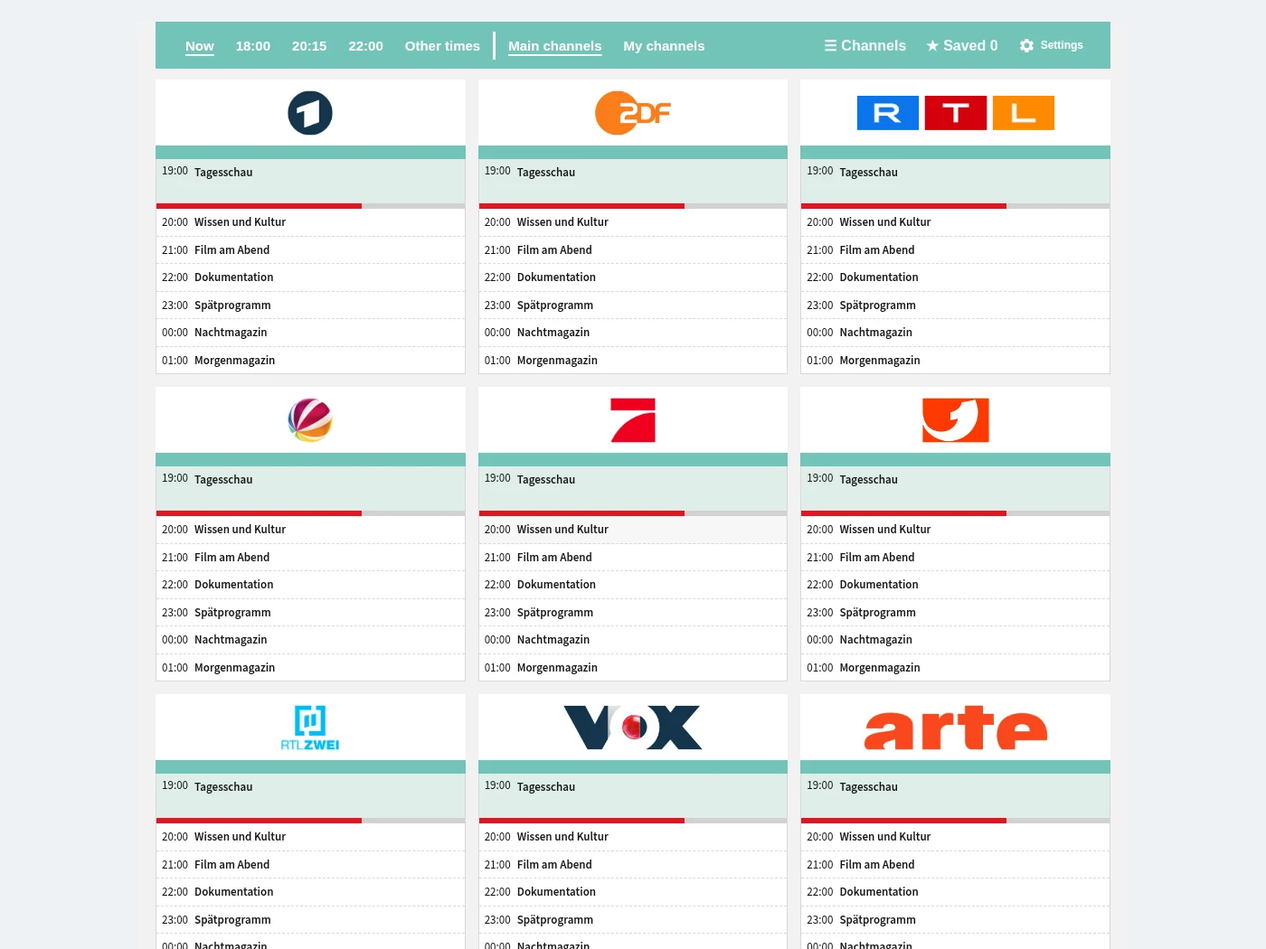
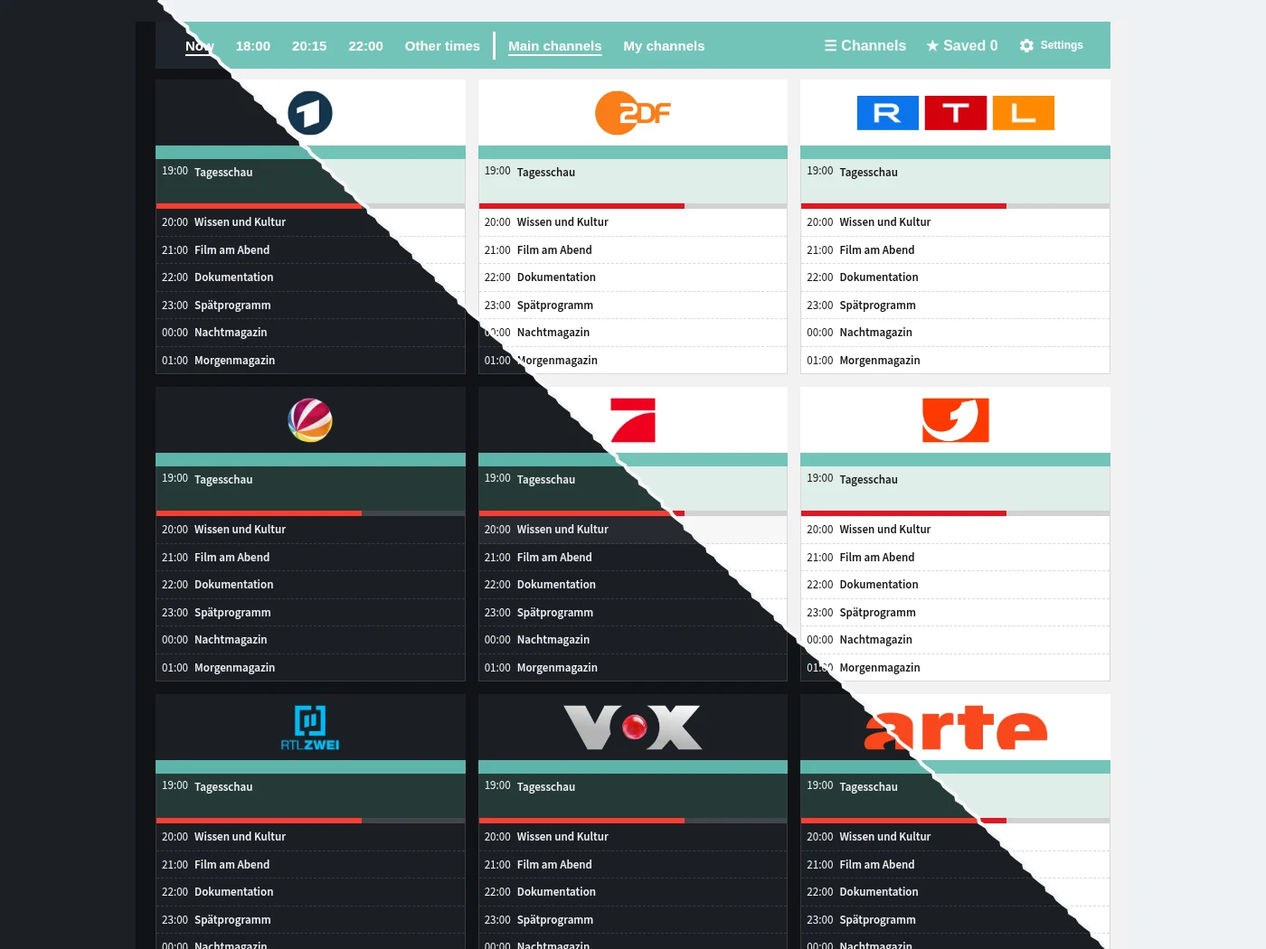
Show dashboard card in light and dark mode in every gallery language

diff --git a/docs/screenshots/fr.html b/docs/screenshots/fr.html
@@ -26,6 +26,6 @@
 <main><section class="hero"><div class="eyebrow">TV Guide · Aperçu</div><h1>TV Guide dans Home Assistant</h1><p class="intro">Découvrez le programme TV, les listes de chaînes personnelles, le choix des horaires et la carte facultative.</p></section><section class="gallery" aria-label="Captures d’écran"><article class="shot"><a class="shot-link" href="fr/program-overview.webp" target="_blank" rel="noopener"><img src="fr/program-overview.webp" alt="Programme TV" width="1400" height="1050" loading="eager"></a><h2>Programme TV</h2><p>Chaînes, horaires et émissions en un coup d’œil. Accédez directement à maintenant, 18:00, 20:15 ou 22:00.</p></article>
 <article class="shot"><a class="shot-link" href="fr/my-channels.webp" target="_blank" rel="noopener"><img src="fr/my-channels.webp" alt="Votre liste de chaînes" width="1400" height="1050" loading="lazy"></a><h2>Votre liste de chaînes</h2><p>Choisissez vos chaînes préférées parmi les pays disponibles et classez-les à votre façon.</p></article>
 <article class="shot"><a class="shot-link" href="fr/other-times.webp" target="_blank" rel="noopener"><img src="fr/other-times.webp" alt="Autres horaires" width="1400" height="1050" loading="lazy"></a><h2>Autres horaires</h2><p>Choisissez une autre date et une heure sans quitter le guide.</p></article>
-<article class="shot"><a class="shot-link" href="fr/dashboard-card.webp" target="_blank" rel="noopener"><img src="fr/dashboard-card.webp" alt="Carte facultative pour le tableau de bord" width="1400" height="1050" loading="lazy"></a><h2>Carte facultative pour le tableau de bord</h2><p>Ajoutez TV Guide à votre tableau de bord. Le guide complet est aussi disponible dans la barre latérale.</p></article></section><p class="samples">Programmes d’exemple. Les titres restent dans leur langue d’origine.</p>
+<article class="shot"><a class="shot-link" href="fr/dashboard-card.webp" target="_blank" rel="noopener"><img src="fr/dashboard-card.webp" alt="Ajoutez TV Guide à votre tableau de bord. Le guide complet est aussi disponible dans la barre latérale. L’image montre la carte en mode clair et sombre." width="1400" height="1050" loading="lazy"></a><h2>Carte facultative pour le tableau de bord</h2><p>Ajoutez TV Guide à votre tableau de bord. Le guide complet est aussi disponible dans la barre latérale. L’image montre la carte en mode clair et sombre.</p></article></section><p class="samples">Programmes d’exemple. Les titres restent dans leur langue d’origine.</p>
 <section class="cta"><h2>Essayez TV Guide</h2><p>Gratuit et directement dans Home Assistant.</p><a class="button" href="https://my.home-assistant.io/redirect/hacs_repository/?owner=criticallimit&amp;repository=HA-TV-Guide&amp;category=integration">Ouvrir dans HACS</a></section></main>
 <footer><span>TV Guide · criticallimit</span><span><a href="../fr.html">Accueil</a> · <a href="https://github.com/criticallimit/HA-TV-Guide/issues">Aide et commentaires</a></span></footer></div></body></html>

diff --git a/docs/screenshots/de.html b/docs/screenshots/de.html
@@ -26,6 +26,6 @@
 <main><section class="hero"><div class="eyebrow">TV Guide · Vorschau</div><h1>TV Guide in Home Assistant</h1><p class="intro">Entdecke die Programmübersicht, persönliche Senderlisten, Zeitauswahl und die optionale Dashboard-Karte.</p></section><section class="gallery" aria-label="Screenshots"><article class="shot"><a class="shot-link" href="de/program-overview.webp" target="_blank" rel="noopener"><img src="de/program-overview.webp" alt="Programmübersicht" width="1400" height="1050" loading="eager"></a><h2>Programmübersicht</h2><p>Sender, Zeiten und Sendungen auf einen Blick. Direkt zu jetzt, 18:00, 20:15 oder 22:00 springen.</p></article>
 <article class="shot"><a class="shot-link" href="de/my-channels.webp" target="_blank" rel="noopener"><img src="de/my-channels.webp" alt="Deine Senderliste" width="1400" height="1050" loading="lazy"></a><h2>Deine Senderliste</h2><p>Wähle Favoriten aus den unterstützten Ländern und bringe sie in deine gewünschte Reihenfolge.</p></article>
 <article class="shot"><a class="shot-link" href="de/other-times.webp" target="_blank" rel="noopener"><img src="de/other-times.webp" alt="Andere Zeiten" width="1400" height="1050" loading="lazy"></a><h2>Andere Zeiten</h2><p>Wähle ein anderes Datum und eine Uhrzeit, ohne die Übersicht zu verlassen.</p></article>
-<article class="shot"><a class="shot-link" href="de/dashboard-card.webp" target="_blank" rel="noopener"><img src="de/dashboard-card.webp" alt="Optionale Dashboard-Karte" width="1400" height="1050" loading="lazy"></a><h2>Optionale Dashboard-Karte</h2><p>Füge TV Guide zu deinem Dashboard hinzu. Die vollständige Übersicht ist auch direkt in der Seitenleiste verfügbar.</p></article></section><p class="samples">Beispielprogramme. Sendungstitel bleiben in ihrer Originalsprache.</p>
+<article class="shot"><a class="shot-link" href="de/dashboard-card.webp" target="_blank" rel="noopener"><img src="de/dashboard-card.webp" alt="Füge TV Guide zu deinem Dashboard hinzu. Die vollständige Übersicht ist auch direkt in der Seitenleiste verfügbar. Das Bild zeigt die Karte im Hell- und Dunkelmodus." width="1400" height="1050" loading="lazy"></a><h2>Optionale Dashboard-Karte</h2><p>Füge TV Guide zu deinem Dashboard hinzu. Die vollständige Übersicht ist auch direkt in der Seitenleiste verfügbar. Das Bild zeigt die Karte im Hell- und Dunkelmodus.</p></article></section><p class="samples">Beispielprogramme. Sendungstitel bleiben in ihrer Originalsprache.</p>
 <section class="cta"><h2>TV Guide ausprobieren</h2><p>Kostenlos und direkt in Home Assistant.</p><a class="button" href="https://my.home-assistant.io/redirect/hacs_repository/?owner=criticallimit&amp;repository=HA-TV-Guide&amp;category=integration">In HACS öffnen</a></section></main>
 <footer><span>TV Guide · criticallimit</span><span><a href="../index.html">Startseite</a> · <a href="https://github.com/criticallimit/HA-TV-Guide/issues">Hilfe &amp; Feedback</a></span></footer></div></body></html>

diff --git a/docs/screenshots.html b/docs/screenshots.html
@@ -26,6 +26,6 @@
 <main><section class="hero"><div class="eyebrow">TV Guide · Preview</div><h1>TV Guide in Home Assistant</h1><p class="intro">Explore the programme guide, personal channel lists, time selection and the optional dashboard card.</p></section><section class="gallery" aria-label="Screenshots"><article class="shot"><a class="shot-link" href="screenshots/en/program-overview.webp" target="_blank" rel="noopener"><img src="screenshots/en/program-overview.webp" alt="Programme overview" width="1400" height="1050" loading="eager"></a><h2>Programme overview</h2><p>Channels, times and programmes at a glance. Jump straight to now, 18:00, 20:15 or 22:00.</p></article>
 <article class="shot"><a class="shot-link" href="screenshots/en/my-channels.webp" target="_blank" rel="noopener"><img src="screenshots/en/my-channels.webp" alt="Your channel list" width="1400" height="1050" loading="lazy"></a><h2>Your channel list</h2><p>Choose favourites from the supported countries and arrange them in your own order.</p></article>
 <article class="shot"><a class="shot-link" href="screenshots/en/other-times.webp" target="_blank" rel="noopener"><img src="screenshots/en/other-times.webp" alt="Other times" width="1400" height="1050" loading="lazy"></a><h2>Other times</h2><p>Choose another date and time without leaving the guide.</p></article>
-<article class="shot"><a class="shot-link" href="screenshots/en/dashboard-card.webp" target="_blank" rel="noopener"><img src="screenshots/en/dashboard-card.webp" alt="Optional dashboard card" width="1400" height="1050" loading="lazy"></a><h2>Optional dashboard card</h2><p>Add TV Guide to your own dashboard. The complete guide is also ready to use in the sidebar.</p></article></section><p class="samples">Example schedules. Programme titles stay in their source language.</p>
+<article class="shot"><a class="shot-link" href="screenshots/en/dashboard-card.webp" target="_blank" rel="noopener"><img src="screenshots/en/dashboard-card.webp" alt="Add TV Guide to your own dashboard. The complete guide is also ready to use in the sidebar. The image shows the card in light and dark mode." width="1400" height="1050" loading="lazy"></a><h2>Optional dashboard card</h2><p>Add TV Guide to your own dashboard. The complete guide is also ready to use in the sidebar. The image shows the card in light and dark mode.</p></article></section><p class="samples">Example schedules. Programme titles stay in their source language.</p>
 <section class="cta"><h2>Try TV Guide</h2><p>Free and directly in Home Assistant.</p><a class="button" href="https://my.home-assistant.io/redirect/hacs_repository/?owner=criticallimit&amp;repository=HA-TV-Guide&amp;category=integration">Open in HACS</a></section></main>
 <footer><span>TV Guide · criticallimit</span><span><a href="en.html">Home</a> · <a href="https://github.com/criticallimit/HA-TV-Guide/issues">Help &amp; feedback</a></span></footer></div></body></html>

diff --git a/docs/screenshots/es.html b/docs/screenshots/es.html
@@ -26,6 +26,6 @@
 <main><section class="hero"><div class="eyebrow">TV Guide · Vista previa</div><h1>TV Guide en Home Assistant</h1><p class="intro">Descubre la guía de programación, las listas personales de canales, la selección de horarios y la tarjeta opcional.</p></section><section class="gallery" aria-label="Capturas de pantalla"><article class="shot"><a class="shot-link" href="es/program-overview.webp" target="_blank" rel="noopener"><img src="es/program-overview.webp" alt="Guía de programación" width="1400" height="1050" loading="eager"></a><h2>Guía de programación</h2><p>Canales, horarios y programas de un vistazo. Ve directamente a ahora, 18:00, 20:15 o 22:00.</p></article>
 <article class="shot"><a class="shot-link" href="es/my-channels.webp" target="_blank" rel="noopener"><img src="es/my-channels.webp" alt="Tu lista de canales" width="1400" height="1050" loading="lazy"></a><h2>Tu lista de canales</h2><p>Elige tus favoritos de los países disponibles y ordénalos a tu gusto.</p></article>
 <article class="shot"><a class="shot-link" href="es/other-times.webp" target="_blank" rel="noopener"><img src="es/other-times.webp" alt="Otros horarios" width="1400" height="1050" loading="lazy"></a><h2>Otros horarios</h2><p>Elige otra fecha y hora sin salir de la guía.</p></article>
-<article class="shot"><a class="shot-link" href="es/dashboard-card.webp" target="_blank" rel="noopener"><img src="es/dashboard-card.webp" alt="Tarjeta opcional para el panel" width="1400" height="1050" loading="lazy"></a><h2>Tarjeta opcional para el panel</h2><p>Añade TV Guide a tu panel. La guía completa también está disponible en la barra lateral.</p></article></section><p class="samples">Programación de ejemplo. Los títulos se mantienen en su idioma original.</p>
+<article class="shot"><a class="shot-link" href="es/dashboard-card.webp" target="_blank" rel="noopener"><img src="es/dashboard-card.webp" alt="Añade TV Guide a tu panel. La guía completa también está disponible en la barra lateral. La imagen muestra la tarjeta en modo claro y oscuro." width="1400" height="1050" loading="lazy"></a><h2>Tarjeta opcional para el panel</h2><p>Añade TV Guide a tu panel. La guía completa también está disponible en la barra lateral. La imagen muestra la tarjeta en modo claro y oscuro.</p></article></section><p class="samples">Programación de ejemplo. Los títulos se mantienen en su idioma original.</p>
 <section class="cta"><h2>Prueba TV Guide</h2><p>Gratis y directamente en Home Assistant.</p><a class="button" href="https://my.home-assistant.io/redirect/hacs_repository/?owner=criticallimit&amp;repository=HA-TV-Guide&amp;category=integration">Abrir en HACS</a></section></main>
 <footer><span>TV Guide · criticallimit</span><span><a href="../es.html">Inicio</a> · <a href="https://github.com/criticallimit/HA-TV-Guide/issues">Ayuda y comentarios</a></span></footer></div></body></html>

diff --git a/docs/screenshots/it.html b/docs/screenshots/it.html
@@ -26,6 +26,6 @@
 <main><section class="hero"><div class="eyebrow">TV Guide · Anteprima</div><h1>TV Guide in Home Assistant</h1><p class="intro">Scopri la guida TV, gli elenchi personali dei canali, la scelta degli orari e la scheda facoltativa.</p></section><section class="gallery" aria-label="Screenshot"><article class="shot"><a class="shot-link" href="it/program-overview.webp" target="_blank" rel="noopener"><img src="it/program-overview.webp" alt="Guida TV" width="1400" height="1050" loading="eager"></a><h2>Guida TV</h2><p>Canali, orari e programmi a colpo d’occhio. Vai direttamente a ora, 18:00, 20:15 o 22:00.</p></article>
 <article class="shot"><a class="shot-link" href="it/my-channels.webp" target="_blank" rel="noopener"><img src="it/my-channels.webp" alt="Il tuo elenco di canali" width="1400" height="1050" loading="lazy"></a><h2>Il tuo elenco di canali</h2><p>Scegli i preferiti dai paesi disponibili e disponili nell’ordine che vuoi.</p></article>
 <article class="shot"><a class="shot-link" href="it/other-times.webp" target="_blank" rel="noopener"><img src="it/other-times.webp" alt="Altri orari" width="1400" height="1050" loading="lazy"></a><h2>Altri orari</h2><p>Scegli un’altra data e ora senza lasciare la guida.</p></article>
-<article class="shot"><a class="shot-link" href="it/dashboard-card.webp" target="_blank" rel="noopener"><img src="it/dashboard-card.webp" alt="Scheda facoltativa per la dashboard" width="1400" height="1050" loading="lazy"></a><h2>Scheda facoltativa per la dashboard</h2><p>Aggiungi TV Guide alla tua dashboard. La guida completa è disponibile anche nella barra laterale.</p></article></section><p class="samples">Programmi di esempio. I titoli restano nella lingua originale.</p>
+<article class="shot"><a class="shot-link" href="it/dashboard-card.webp" target="_blank" rel="noopener"><img src="it/dashboard-card.webp" alt="Aggiungi TV Guide alla tua dashboard. La guida completa è disponibile anche nella barra laterale. L’immagine mostra la scheda in modalità chiara e scura." width="1400" height="1050" loading="lazy"></a><h2>Scheda facoltativa per la dashboard</h2><p>Aggiungi TV Guide alla tua dashboard. La guida completa è disponibile anche nella barra laterale. L’immagine mostra la scheda in modalità chiara e scura.</p></article></section><p class="samples">Programmi di esempio. I titoli restano nella lingua originale.</p>
 <section class="cta"><h2>Prova TV Guide</h2><p>Gratis e direttamente in Home Assistant.</p><a class="button" href="https://my.home-assistant.io/redirect/hacs_repository/?owner=criticallimit&amp;repository=HA-TV-Guide&amp;category=integration">Apri in HACS</a></section></main>
 <footer><span>TV Guide · criticallimit</span><span><a href="../it.html">Home</a> · <a href="https://github.com/criticallimit/HA-TV-Guide/issues">Aiuto e commenti</a></span></footer></div></body></html>

diff --git a/docs/screenshots/nl.html b/docs/screenshots/nl.html
@@ -26,6 +26,6 @@
 <main><section class="hero"><div class="eyebrow">TV Guide · Voorbeeld</div><h1>TV Guide in Home Assistant</h1><p class="intro">Bekijk de programmagids, persoonlijke zenderlijsten, tijdkeuze en de optionele dashboardkaart.</p></section><section class="gallery" aria-label="Schermafbeeldingen"><article class="shot"><a class="shot-link" href="nl/program-overview.webp" target="_blank" rel="noopener"><img src="nl/program-overview.webp" alt="Programmaoverzicht" width="1400" height="1050" loading="eager"></a><h2>Programmaoverzicht</h2><p>Zenders, tijden en programma’s in één oogopslag. Ga direct naar nu, 18:00, 20:15 of 22:00.</p></article>
 <article class="shot"><a class="shot-link" href="nl/my-channels.webp" target="_blank" rel="noopener"><img src="nl/my-channels.webp" alt="Jouw zenderlijst" width="1400" height="1050" loading="lazy"></a><h2>Jouw zenderlijst</h2><p>Kies favorieten uit de beschikbare landen en zet ze in je eigen volgorde.</p></article>
 <article class="shot"><a class="shot-link" href="nl/other-times.webp" target="_blank" rel="noopener"><img src="nl/other-times.webp" alt="Andere tijden" width="1400" height="1050" loading="lazy"></a><h2>Andere tijden</h2><p>Kies een andere datum en tijd zonder de gids te verlaten.</p></article>
-<article class="shot"><a class="shot-link" href="nl/dashboard-card.webp" target="_blank" rel="noopener"><img src="nl/dashboard-card.webp" alt="Optionele dashboardkaart" width="1400" height="1050" loading="lazy"></a><h2>Optionele dashboardkaart</h2><p>Voeg TV Guide toe aan je dashboard. De volledige gids is ook beschikbaar in de zijbalk.</p></article></section><p class="samples">Voorbeeldprogramma’s. Programmatitels blijven in hun oorspronkelijke taal.</p>
+<article class="shot"><a class="shot-link" href="nl/dashboard-card.webp" target="_blank" rel="noopener"><img src="nl/dashboard-card.webp" alt="Voeg TV Guide toe aan je dashboard. De volledige gids is ook beschikbaar in de zijbalk. De afbeelding toont de kaart in de lichte en donkere modus." width="1400" height="1050" loading="lazy"></a><h2>Optionele dashboardkaart</h2><p>Voeg TV Guide toe aan je dashboard. De volledige gids is ook beschikbaar in de zijbalk. De afbeelding toont de kaart in de lichte en donkere modus.</p></article></section><p class="samples">Voorbeeldprogramma’s. Programmatitels blijven in hun oorspronkelijke taal.</p>
 <section class="cta"><h2>Probeer TV Guide</h2><p>Gratis en direct in Home Assistant.</p><a class="button" href="https://my.home-assistant.io/redirect/hacs_repository/?owner=criticallimit&amp;repository=HA-TV-Guide&amp;category=integration">Openen in HACS</a></section></main>
 <footer><span>TV Guide · criticallimit</span><span><a href="../nl.html">Startpagina</a> · <a href="https://github.com/criticallimit/HA-TV-Guide/issues">Hulp en feedback</a></span></footer></div></body></html>

diff --git a/docs/screenshots/pl.html b/docs/screenshots/pl.html
@@ -26,6 +26,6 @@
 <main><section class="hero"><div class="eyebrow">TV Guide · Podgląd</div><h1>TV Guide w Home Assistant</h1><p class="intro">Zobacz program TV, własne listy kanałów, wybór godziny i opcjonalną kartę pulpitu.</p></section><section class="gallery" aria-label="Zrzuty ekranu"><article class="shot"><a class="shot-link" href="pl/program-overview.webp" target="_blank" rel="noopener"><img src="pl/program-overview.webp" alt="Program TV" width="1400" height="1050" loading="eager"></a><h2>Program TV</h2><p>Kanały, godziny i programy w jednym miejscu. Przejdź do teraz, 18:00, 20:15 lub 22:00.</p></article>
 <article class="shot"><a class="shot-link" href="pl/my-channels.webp" target="_blank" rel="noopener"><img src="pl/my-channels.webp" alt="Twoja lista kanałów" width="1400" height="1050" loading="lazy"></a><h2>Twoja lista kanałów</h2><p>Wybierz ulubione kanały z dostępnych krajów i ustaw własną kolejność.</p></article>
 <article class="shot"><a class="shot-link" href="pl/other-times.webp" target="_blank" rel="noopener"><img src="pl/other-times.webp" alt="Inny termin" width="1400" height="1050" loading="lazy"></a><h2>Inny termin</h2><p>Wybierz inną datę i godzinę bez opuszczania programu TV.</p></article>
-<article class="shot"><a class="shot-link" href="pl/dashboard-card.webp" target="_blank" rel="noopener"><img src="pl/dashboard-card.webp" alt="Opcjonalna karta pulpitu" width="1400" height="1050" loading="lazy"></a><h2>Opcjonalna karta pulpitu</h2><p>Dodaj TV Guide do własnego pulpitu. Pełny program jest także dostępny na pasku bocznym.</p></article></section><p class="samples">Przykładowe programy. Tytuły pozostają w języku oryginalnym.</p>
+<article class="shot"><a class="shot-link" href="pl/dashboard-card.webp" target="_blank" rel="noopener"><img src="pl/dashboard-card.webp" alt="Dodaj TV Guide do własnego pulpitu. Pełny program jest także dostępny na pasku bocznym. Obraz przedstawia kartę w trybie jasnym i ciemnym." width="1400" height="1050" loading="lazy"></a><h2>Opcjonalna karta pulpitu</h2><p>Dodaj TV Guide do własnego pulpitu. Pełny program jest także dostępny na pasku bocznym. Obraz przedstawia kartę w trybie jasnym i ciemnym.</p></article></section><p class="samples">Przykładowe programy. Tytuły pozostają w języku oryginalnym.</p>
 <section class="cta"><h2>Wypróbuj TV Guide</h2><p>Bezpłatnie i bezpośrednio w Home Assistant.</p><a class="button" href="https://my.home-assistant.io/redirect/hacs_repository/?owner=criticallimit&amp;repository=HA-TV-Guide&amp;category=integration">Otwórz w HACS</a></section></main>
 <footer><span>TV Guide · criticallimit</span><span><a href="../pl.html">Strona główna</a> · <a href="https://github.com/criticallimit/HA-TV-Guide/issues">Pomoc i opinie</a></span></footer></div></body></html>

diff --git a/docs/screenshots/en.html b/docs/screenshots/en.html
@@ -26,6 +26,6 @@
 <main><section class="hero"><div class="eyebrow">TV Guide · Preview</div><h1>TV Guide in Home Assistant</h1><p class="intro">Explore the programme guide, personal channel lists, time selection and the optional dashboard card.</p></section><section class="gallery" aria-label="Screenshots"><article class="shot"><a class="shot-link" href="en/program-overview.webp" target="_blank" rel="noopener"><img src="en/program-overview.webp" alt="Programme overview" width="1400" height="1050" loading="eager"></a><h2>Programme overview</h2><p>Channels, times and programmes at a glance. Jump straight to now, 18:00, 20:15 or 22:00.</p></article>
 <article class="shot"><a class="shot-link" href="en/my-channels.webp" target="_blank" rel="noopener"><img src="en/my-channels.webp" alt="Your channel list" width="1400" height="1050" loading="lazy"></a><h2>Your channel list</h2><p>Choose favourites from the supported countries and arrange them in your own order.</p></article>
 <article class="shot"><a class="shot-link" href="en/other-times.webp" target="_blank" rel="noopener"><img src="en/other-times.webp" alt="Other times" width="1400" height="1050" loading="lazy"></a><h2>Other times</h2><p>Choose another date and time without leaving the guide.</p></article>
-<article class="shot"><a class="shot-link" href="en/dashboard-card.webp" target="_blank" rel="noopener"><img src="en/dashboard-card.webp" alt="Optional dashboard card" width="1400" height="1050" loading="lazy"></a><h2>Optional dashboard card</h2><p>Add TV Guide to your own dashboard. The complete guide is also ready to use in the sidebar.</p></article></section><p class="samples">Example schedules. Programme titles stay in their source language.</p>
+<article class="shot"><a class="shot-link" href="en/dashboard-card.webp" target="_blank" rel="noopener"><img src="en/dashboard-card.webp" alt="Add TV Guide to your own dashboard. The complete guide is also ready to use in the sidebar. The image shows the card in light and dark mode." width="1400" height="1050" loading="lazy"></a><h2>Optional dashboard card</h2><p>Add TV Guide to your own dashboard. The complete guide is also ready to use in the sidebar. The image shows the card in light and dark mode.</p></article></section><p class="samples">Example schedules. Programme titles stay in their source language.</p>
 <section class="cta"><h2>Try TV Guide</h2><p>Free and directly in Home Assistant.</p><a class="button" href="https://my.home-assistant.io/redirect/hacs_repository/?owner=criticallimit&amp;repository=HA-TV-Guide&amp;category=integration">Open in HACS</a></section></main>
 <footer><span>TV Guide · criticallimit</span><span><a href="../en.html">Home</a> · <a href="https://github.com/criticallimit/HA-TV-Guide/issues">Help &amp; feedback</a></span></footer></div></body></html>

diff --git a/docs/screenshots/da.html b/docs/screenshots/da.html
@@ -26,6 +26,6 @@
 <main><section class="hero"><div class="eyebrow">TV Guide · Forhåndsvisning</div><h1>TV Guide i Home Assistant</h1><p class="intro">Se programoversigten, personlige kanallister, tidsvalg og det valgfrie dashboardkort.</p></section><section class="gallery" aria-label="Skærmbilleder"><article class="shot"><a class="shot-link" href="da/program-overview.webp" target="_blank" rel="noopener"><img src="da/program-overview.webp" alt="Programoversigt" width="1400" height="1050" loading="eager"></a><h2>Programoversigt</h2><p>Kanaler, tider og programmer på ét sted. Gå direkte til nu, 18:00, 20:15 eller 22:00.</p></article>
 <article class="shot"><a class="shot-link" href="da/my-channels.webp" target="_blank" rel="noopener"><img src="da/my-channels.webp" alt="Din kanalliste" width="1400" height="1050" loading="lazy"></a><h2>Din kanalliste</h2><p>Vælg favoritter fra de understøttede lande, og sæt dem i din egen rækkefølge.</p></article>
 <article class="shot"><a class="shot-link" href="da/other-times.webp" target="_blank" rel="noopener"><img src="da/other-times.webp" alt="Andre tidspunkter" width="1400" height="1050" loading="lazy"></a><h2>Andre tidspunkter</h2><p>Vælg en anden dato og tid uden at forlade oversigten.</p></article>
-<article class="shot"><a class="shot-link" href="da/dashboard-card.webp" target="_blank" rel="noopener"><img src="da/dashboard-card.webp" alt="Valgfrit dashboardkort" width="1400" height="1050" loading="lazy"></a><h2>Valgfrit dashboardkort</h2><p>Tilføj TV Guide til dit eget dashboard. Hele guiden er også klar til brug i sidepanelet.</p></article></section><p class="samples">Eksempelprogrammer. Programtitler vises på originalsproget.</p>
+<article class="shot"><a class="shot-link" href="da/dashboard-card.webp" target="_blank" rel="noopener"><img src="da/dashboard-card.webp" alt="Tilføj TV Guide til dit eget dashboard. Hele guiden er også klar til brug i sidepanelet. Billedet viser kortet i lys og mørk tilstand." width="1400" height="1050" loading="lazy"></a><h2>Valgfrit dashboardkort</h2><p>Tilføj TV Guide til dit eget dashboard. Hele guiden er også klar til brug i sidepanelet. Billedet viser kortet i lys og mørk tilstand.</p></article></section><p class="samples">Eksempelprogrammer. Programtitler vises på originalsproget.</p>
 <section class="cta"><h2>Prøv TV Guide</h2><p>Gratis og direkte i Home Assistant.</p><a class="button" href="https://my.home-assistant.io/redirect/hacs_repository/?owner=criticallimit&amp;repository=HA-TV-Guide&amp;category=integration">Åbn i HACS</a></section></main>
 <footer><span>TV Guide · criticallimit</span><span><a href="../da.html">Forside</a> · <a href="https://github.com/criticallimit/HA-TV-Guide/issues">Hjælp og feedback</a></span></footer></div></body></html>

diff --git a/docs/screenshots/nb.html b/docs/screenshots/nb.html
@@ -26,6 +26,6 @@
 <main><section class="hero"><div class="eyebrow">TV Guide · Forhåndsvisning</div><h1>TV Guide i Home Assistant</h1><p class="intro">Se programoversikten, personlige kanallister, tidsvalg og det valgfrie dashboardkortet.</p></section><section class="gallery" aria-label="Skjermbilder"><article class="shot"><a class="shot-link" href="nb/program-overview.webp" target="_blank" rel="noopener"><img src="nb/program-overview.webp" alt="Programoversikt" width="1400" height="1050" loading="eager"></a><h2>Programoversikt</h2><p>Kanaler, tider og programmer på ett sted. Gå direkte til nå, 18:00, 20:15 eller 22:00.</p></article>
 <article class="shot"><a class="shot-link" href="nb/my-channels.webp" target="_blank" rel="noopener"><img src="nb/my-channels.webp" alt="Din kanalliste" width="1400" height="1050" loading="lazy"></a><h2>Din kanalliste</h2><p>Velg favoritter fra de tilgjengelige landene og sett dem i ønsket rekkefølge.</p></article>
 <article class="shot"><a class="shot-link" href="nb/other-times.webp" target="_blank" rel="noopener"><img src="nb/other-times.webp" alt="Andre tidspunkter" width="1400" height="1050" loading="lazy"></a><h2>Andre tidspunkter</h2><p>Velg en annen dato og tid uten å forlate guiden.</p></article>
-<article class="shot"><a class="shot-link" href="nb/dashboard-card.webp" target="_blank" rel="noopener"><img src="nb/dashboard-card.webp" alt="Valgfritt dashboardkort" width="1400" height="1050" loading="lazy"></a><h2>Valgfritt dashboardkort</h2><p>Legg til TV Guide i ditt eget dashboard. Hele guiden er også tilgjengelig i sidepanelet.</p></article></section><p class="samples">Eksempelprogrammer. Programtitler beholdes på originalspråket.</p>
+<article class="shot"><a class="shot-link" href="nb/dashboard-card.webp" target="_blank" rel="noopener"><img src="nb/dashboard-card.webp" alt="Legg til TV Guide i ditt eget dashboard. Hele guiden er også tilgjengelig i sidepanelet. Bildet viser kortet i lys og mørk modus." width="1400" height="1050" loading="lazy"></a><h2>Valgfritt dashboardkort</h2><p>Legg til TV Guide i ditt eget dashboard. Hele guiden er også tilgjengelig i sidepanelet. Bildet viser kortet i lys og mørk modus.</p></article></section><p class="samples">Eksempelprogrammer. Programtitler beholdes på originalspråket.</p>
 <section class="cta"><h2>Prøv TV Guide</h2><p>Gratis og direkte i Home Assistant.</p><a class="button" href="https://my.home-assistant.io/redirect/hacs_repository/?owner=criticallimit&amp;repository=HA-TV-Guide&amp;category=integration">Åpne i HACS</a></section></main>
 <footer><span>TV Guide · criticallimit</span><span><a href="../nb.html">Forside</a> · <a href="https://github.com/criticallimit/HA-TV-Guide/issues">Hjelp og tilbakemelding</a></span></footer></div></body></html>

diff --git a/docs/screenshots/sv.html b/docs/screenshots/sv.html
@@ -26,6 +26,6 @@
 <main><section class="hero"><div class="eyebrow">TV Guide · Förhandsvisning</div><h1>TV Guide i Home Assistant</h1><p class="intro">Se programöversikten, personliga kanallistor, tidsval och det valfria dashboardkortet.</p></section><section class="gallery" aria-label="Skärmbilder"><article class="shot"><a class="shot-link" href="sv/program-overview.webp" target="_blank" rel="noopener"><img src="sv/program-overview.webp" alt="Programöversikt" width="1400" height="1050" loading="eager"></a><h2>Programöversikt</h2><p>Kanaler, tider och program på ett ställe. Gå direkt till nu, 18:00, 20:15 eller 22:00.</p></article>
 <article class="shot"><a class="shot-link" href="sv/my-channels.webp" target="_blank" rel="noopener"><img src="sv/my-channels.webp" alt="Din kanallista" width="1400" height="1050" loading="lazy"></a><h2>Din kanallista</h2><p>Välj favoriter från de tillgängliga länderna och ordna dem som du vill.</p></article>
 <article class="shot"><a class="shot-link" href="sv/other-times.webp" target="_blank" rel="noopener"><img src="sv/other-times.webp" alt="Andra tider" width="1400" height="1050" loading="lazy"></a><h2>Andra tider</h2><p>Välj ett annat datum och en tid utan att lämna guiden.</p></article>
-<article class="shot"><a class="shot-link" href="sv/dashboard-card.webp" target="_blank" rel="noopener"><img src="sv/dashboard-card.webp" alt="Valfritt dashboardkort" width="1400" height="1050" loading="lazy"></a><h2>Valfritt dashboardkort</h2><p>Lägg till TV Guide i din dashboard. Hela guiden finns också i sidopanelen.</p></article></section><p class="samples">Exempelprogram. Programtitlar visas på originalspråket.</p>
+<article class="shot"><a class="shot-link" href="sv/dashboard-card.webp" target="_blank" rel="noopener"><img src="sv/dashboard-card.webp" alt="Lägg till TV Guide i din dashboard. Hela guiden finns också i sidopanelen. Bilden visar kortet i ljust och mörkt läge." width="1400" height="1050" loading="lazy"></a><h2>Valfritt dashboardkort</h2><p>Lägg till TV Guide i din dashboard. Hela guiden finns också i sidopanelen. Bilden visar kortet i ljust och mörkt läge.</p></article></section><p class="samples">Exempelprogram. Programtitlar visas på originalspråket.</p>
 <section class="cta"><h2>Prova TV Guide</h2><p>Gratis och direkt i Home Assistant.</p><a class="button" href="https://my.home-assistant.io/redirect/hacs_repository/?owner=criticallimit&amp;repository=HA-TV-Guide&amp;category=integration">Öppna i HACS</a></section></main>
 <footer><span>TV Guide · criticallimit</span><span><a href="../sv.html">Startsida</a> · <a href="https://github.com/criticallimit/HA-TV-Guide/issues">Hjälp och återkoppling</a></span></footer></div></body></html>

diff --git a/tools/build_screenshot_gallery.py b/tools/build_screenshot_gallery.py
@@ -26,7 +26,7 @@ def build():
         t=locales[code];prefix='' if entry else '../';home=prefix+('index.html' if code=='de' else code+'.html')
         gallery_prefix='screenshots/' if entry else ''
         nav='\n'.join(f'<a href="{gallery_prefix}{lang}.html" lang="{lang}"'+(' aria-current="page"' if lang==code else '')+f'><span class="flagwrap"><img src="{prefix}flags/{flags.get(lang,lang)}.svg" alt=""></span><span>{escape(names[lang])}</span></a>' for lang in order)
-        shots='\n'.join(f'<article class="shot"><a class="shot-link" href="{gallery_prefix}{code}/{image}.webp" target="_blank" rel="noopener"><img src="{gallery_prefix}{code}/{image}.webp" alt="{escape(t[key],quote=True)}" width="1400" height="1050" loading="'+('eager' if image=='program-overview' else 'lazy')+f'"></a><h2>{escape(t[key])}</h2><p>{escape(t[key+"_text"])}</p></article>' for image,key in IMAGES)
+        shots='\n'.join(f'<article class="shot"><a class="shot-link" href="{gallery_prefix}{code}/{image}.webp" target="_blank" rel="noopener"><img src="{gallery_prefix}{code}/{image}.webp" alt="{escape(t[key+'_text'] if key=='card' else t[key],quote=True)}" width="1400" height="1050" loading="'+('eager' if image=='program-overview' else 'lazy')+f'"></a><h2>{escape(t[key])}</h2><p>{escape(t[key+"_text"])}</p></article>' for image,key in IMAGES)
         alternatives='\n'.join(f'<link rel="alternate" hreflang="{lang}" href="{URL}screenshots/{lang}.html">' for lang in order)
         canonical=URL+('screenshots.html' if entry else 'screenshots/'+code+'.html')
         redirect='<script src="site-language.js" data-gallery-entry data-languages="'+' '.join(order)+'"></script>' if entry else '<script src="../site-language.js" defer></script>'
